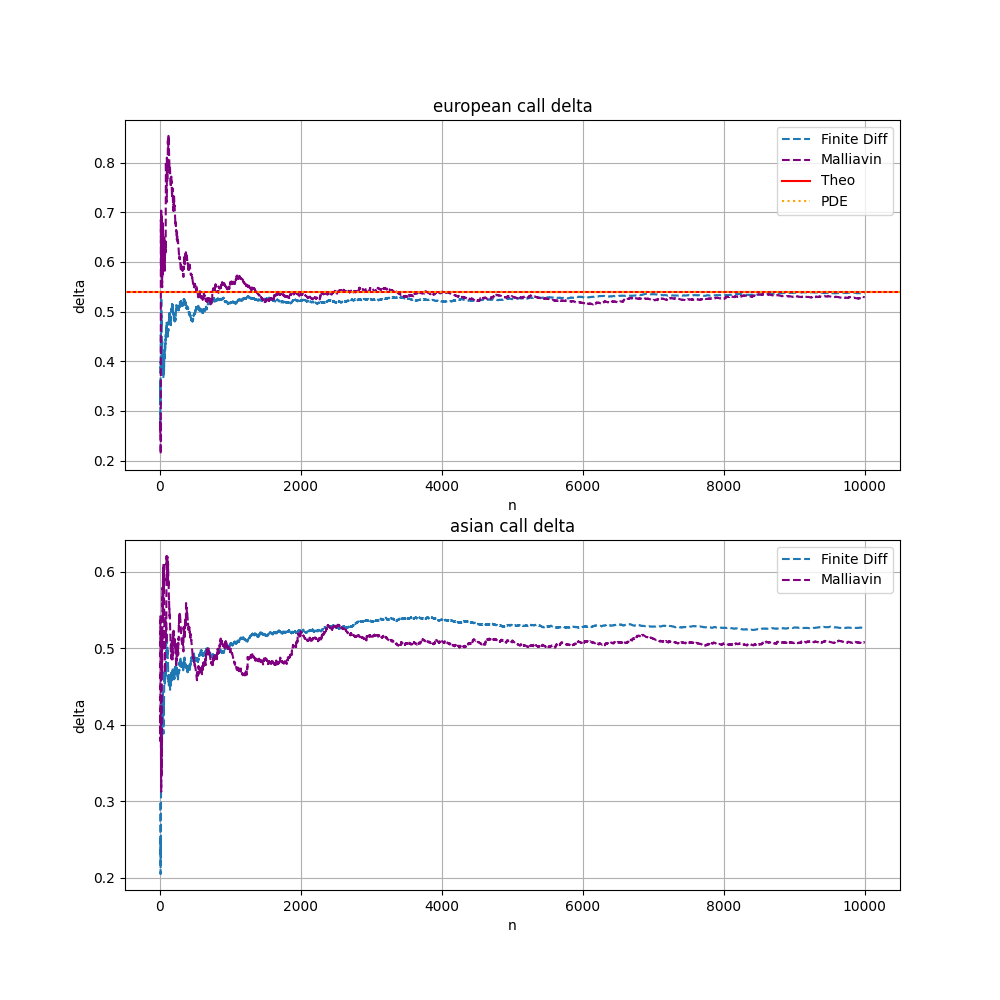
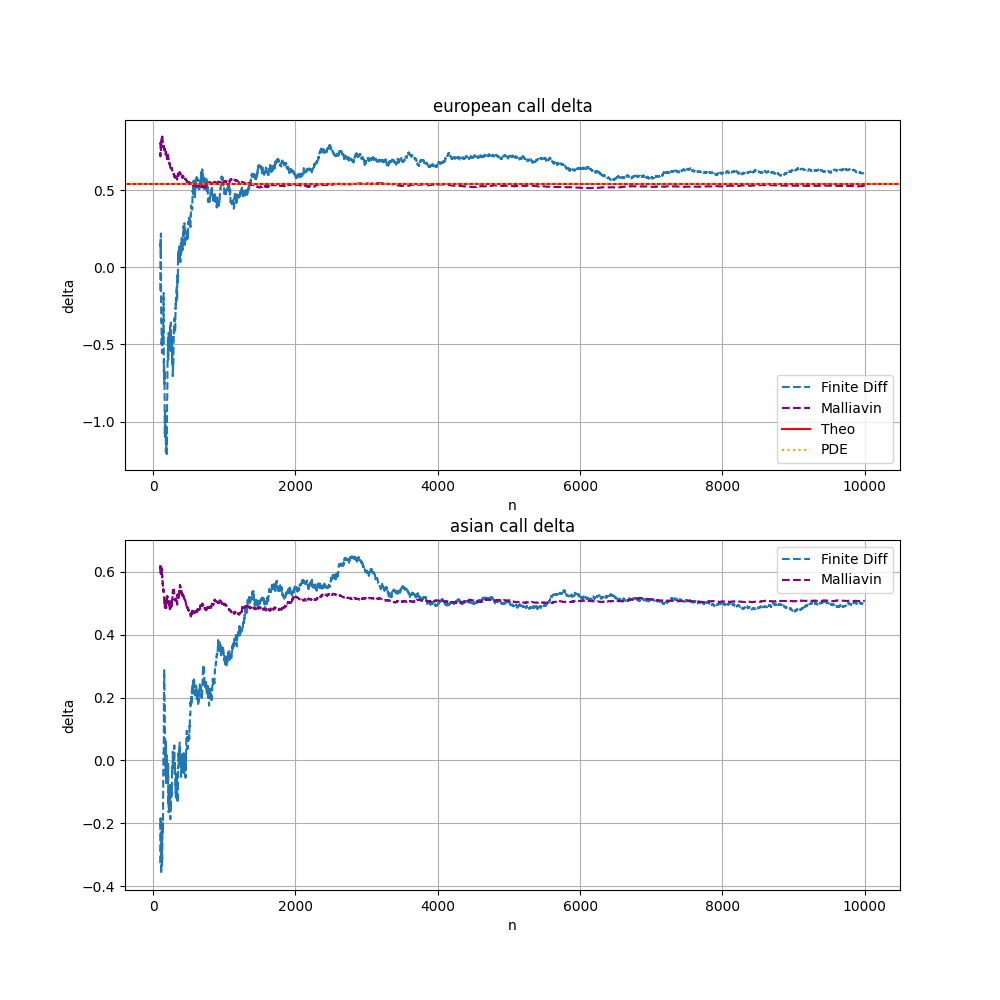
update

diff --git a/MC_FiniteDiff.cpp b/MC_FiniteDiff.cpp
@@ -2,7 +2,6 @@
 #include<math.h>
 #include"MC_FiniteDiff.h"
 #include"utility.h"
-#include"utility.cpp"
 using namespace std;
 
 MC_FiniteDiff::MC_FiniteDiff(float S0_, float r_, float sigma_, float T_, float K_, int I_, int N_) :
@@ -12,7 +11,7 @@ MC_FiniteDiff::MC_FiniteDiff():S0(100), r(0), sigma(0.2), T(1), K(100), I(100), 
 
 
 // n is the time of simulation
-vector<float> MC_FiniteDiff::price(string option_type, int N){
+vector<float> MC_FiniteDiff::price(string option_type){
     vector<float> St,Prices;
     float d_sum = 0;
     for (int i = 0; i < N; i++) {
@@ -25,8 +24,8 @@ vector<float> MC_FiniteDiff::price(string option_type, int N){
 	return Prices;
 }
 
-vector<float> MC_FiniteDiff::delta(string option_type, int N) {
-	float dS0 = 0.0001;
+vector<float> MC_FiniteDiff::delta(string option_type) {
+	float dS0 = 1;
    
     vector<float> St1,St2;
     float d_sum1 = 0;
@@ -36,18 +35,18 @@ vector<float> MC_FiniteDiff::delta(string option_type, int N) {
     for (int i = 0; i < N; i++) {
 		St1 = generate_St(S0-dS0, r, sigma, I, h);
         St2 = generate_St(S0+dS0, r, sigma, I, h);
-		float actualised_payoff1 = exp(-r * T) * payoff(option_type, St1, K);
-        float actualised_payoff1 = exp(-r * T) * payoff(option_type, St2, K);
-		d_sum1 += actualised_payoff1;
-        d_sum2 += actualised_payoff1;
 
+		d_sum1 += exp(-r * T) * payoff(option_type, St1, K);
+        d_sum2 += exp(-r * T) * payoff(option_type, St2, K);
+        
         Deltas.push_back((d_sum2-d_sum1)/(i+1)/(2*dS0));
 	}
+    cout << d_sum1/N << "  " << d_sum2/N << endl;
 	return Deltas;
 }
 
-vector<float> MC_FiniteDiff::gamma(string option_type, int N) {
-    float dS0 = 0.0001;
+vector<float> MC_FiniteDiff::gamma(string option_type) {
+    float dS0 = 1;
    
     vector<float> St1,St,St2;
     float d_sum1 = 0;
@@ -61,18 +60,18 @@ vector<float> MC_FiniteDiff::gamma(string option_type, int N) {
         St2 = generate_St(S0+dS0, r, sigma, I, h);
 		float actualised_payoff1 = exp(-r * T) * payoff(option_type, St1, K);
         float actualised_payoff = exp(-r * T) * payoff(option_type, St, K);
-        float actualised_payoff1 = exp(-r * T) * payoff(option_type, St2, K);
+        float actualised_payoff2 = exp(-r * T) * payoff(option_type, St2, K);
 		d_sum1 += actualised_payoff1;
         d_sum += actualised_payoff;
-        d_sum2 += actualised_payoff1;
+        d_sum2 += actualised_payoff2;
 
         Gammas.push_back((d_sum2-2*d_sum+d_sum1)/(i+1)/pow(dS0,2));
 	}
 	return Gammas;
 }
 
-vector<float> MC_FiniteDiff::vega(string option_type, int N) {
-	float dsig = 0.0001;
+vector<float> MC_FiniteDiff::vega(string option_type) {
+	float dsig = 0.1;
    
     vector<float> St1,St2;
     float d_sum1 = 0;
@@ -83,9 +82,9 @@ vector<float> MC_FiniteDiff::vega(string option_type, int N) {
 		St1 = generate_St(S0, r, sigma-dsig, I, h);
         St2 = generate_St(S0, r, sigma+dsig, I, h);
 		float actualised_payoff1 = exp(-r * T) * payoff(option_type, St1, K);
-        float actualised_payoff1 = exp(-r * T) * payoff(option_type, St2, K);
+        float actualised_payoff2 = exp(-r * T) * payoff(option_type, St2, K);
 		d_sum1 += actualised_payoff1;
-        d_sum2 += actualised_payoff1;
+        d_sum2 += actualised_payoff2;
 
         Vegas.push_back((d_sum2-d_sum1)/(i+1)/(2*dsig));
 	}

diff --git a/main.cpp b/main.cpp
@@ -6,17 +6,14 @@
  * @Author: SHAO Nuoya
  * @Date: 2021-12-28 01:36:15
  * @LastEditors: SHAO Nuoya
- * @LastEditTime: 2022-02-06 10:35:28
+ * @LastEditTime: 2022-02-07 19:19:03
  */
 
 //#include"Malliavin.h"
 //#include"Malliavin.cpp"
 #include"PDE_FiniteDiff.h"
-#include"PDE_FiniteDiff.cpp"
 #include"MC_FiniteDiff.h"
-#include"MC_FiniteDiff.cpp"
 #include"utility.h"
-#include"utility.cpp"
 
 
 #include <iostream>
@@ -66,7 +63,7 @@ int main(void) {
 	to_txt(vega1, "M_Vega_" + option_type1);
 	to_txt(vega2, "M_Vega_" + option_type2);
 	
-	*/
+	
 
 	// Finite difference method with PDE
 
@@ -81,7 +78,7 @@ int main(void) {
 	// Finite difference method with Monte Carlo
 
 
-	/*
+	
 	to_txt(delta1, "FD_Delta_" + option_type1);
 	to_txt(delta2, "FD_Delta_" + option_type2);
 
@@ -90,17 +87,25 @@ int main(void) {
 
 	to_txt(vega1, "FD_Vega_" + option_type1);
 	to_txt(vega2, "FD_Vega_" + option_type2);
-
-	to_txt(rho1, "FD_Rho_" + option_type1);
-	to_txt(rho2, "FD_Rho_" + option_type2);
 	*/
 
 
 	// Monte Carlo finite difference method
 	MC_FiniteDiff MC_finite_diff;
 
-	cout << "price=" << MC_finite_diff.delta("EUR_CALL", 10000).back() << endl;
-
+	vector<float> FD_EURO_delta = MC_finite_diff.delta(option_type1);
+	to_txt(FD_EURO_delta, "FD_Delta_" + option_type1);
+	vector<float> FD_EURO_gamma = MC_finite_diff.gamma(option_type1);
+	to_txt(FD_EURO_gamma, "FD_Gamma_" + option_type1);
+	vector<float> FD_EURO_vega = MC_finite_diff.vega(option_type1);
+	to_txt(FD_EURO_vega, "FD_Vega_" + option_type1);
+	
+	vector<float> FD_ASIA_delta = MC_finite_diff.delta(option_type2);
+	to_txt(FD_ASIA_delta, "FD_Delta_" + option_type2);
+	vector<float> FD_ASIA_gamma = MC_finite_diff.gamma(option_type2);
+	to_txt(FD_ASIA_gamma, "FD_Gamma_" + option_type2);
+	vector<float> FD_ASIA_vega = MC_finite_diff.vega(option_type2);
+	to_txt(FD_ASIA_vega, "FD_Vega_" + option_type2);
 
 	/*
 	// Finite difference method in PDE: European option; Explicit scheme

diff --git a/draw.py b/draw.py
@@ -4,7 +4,7 @@ Version: 1.0
 Author: SHAO Nuoya
 Date: 2021-12-28 02:05:04
 LastEditors: SHAO Nuoya
-LastEditTime: 2022-02-06 23:13:05
+LastEditTime: 2022-02-07 19:57:58
 '''
 
 import matplotlib.pyplot as plt
@@ -38,14 +38,14 @@ def plot_greek(FD_eur_data, FD_asia_data, M_eur_data, M_asia_data, greek_name):
     plt.subplot(2, 1, 1)
 
     # Finite difference method
-    plt.plot(range(10, len(FD_eur_data)),
-             FD_eur_data[10:],
+    plt.plot(range(100, len(FD_eur_data)),
+             FD_eur_data[100:],
              label='Finite Diff',
              linestyle="--")
 
     # Malliavin method
-    plt.plot(range(10, len(M_eur_data)),
-             M_eur_data[10:],
+    plt.plot(range(100, len(M_eur_data)),
+             M_eur_data[100:],
              label='Malliavin',
              color='purple',
              linestyle="--")
@@ -65,14 +65,14 @@ def plot_greek(FD_eur_data, FD_asia_data, M_eur_data, M_asia_data, greek_name):
     plt.subplot(2, 1, 2)
 
     # Finite difference method
-    plt.plot(range(10, len(FD_asia_data)),
-             FD_asia_data[10:],
+    plt.plot(range(100, len(FD_asia_data)),
+             FD_asia_data[100:],
              label='Finite Diff',
              linestyle="--")
 
     # Malliavin method
-    plt.plot(range(10, len(M_asia_data)),
-             M_asia_data[10:],
+    plt.plot(range(100, len(M_asia_data)),
+             M_asia_data[100:],
              label='Malliavin',
              color='purple',
              linestyle="--")

diff --git a/MC_FiniteDiff.h b/MC_FiniteDiff.h
@@ -20,9 +20,9 @@ public:
 	MC_FiniteDiff();
 	
 	//simulation
-    vector<float> price(string option_type, int n);
-	vector<float> delta(string option_type, int n);
-	vector<float> gamma(string option_type, int n);
-	vector<float> vega(string option_type, int n);
+    vector<float> price(string option_type);
+	vector<float> delta(string option_type);
+	vector<float> gamma(string option_type);
+	vector<float> vega(string option_type);
 };
 
